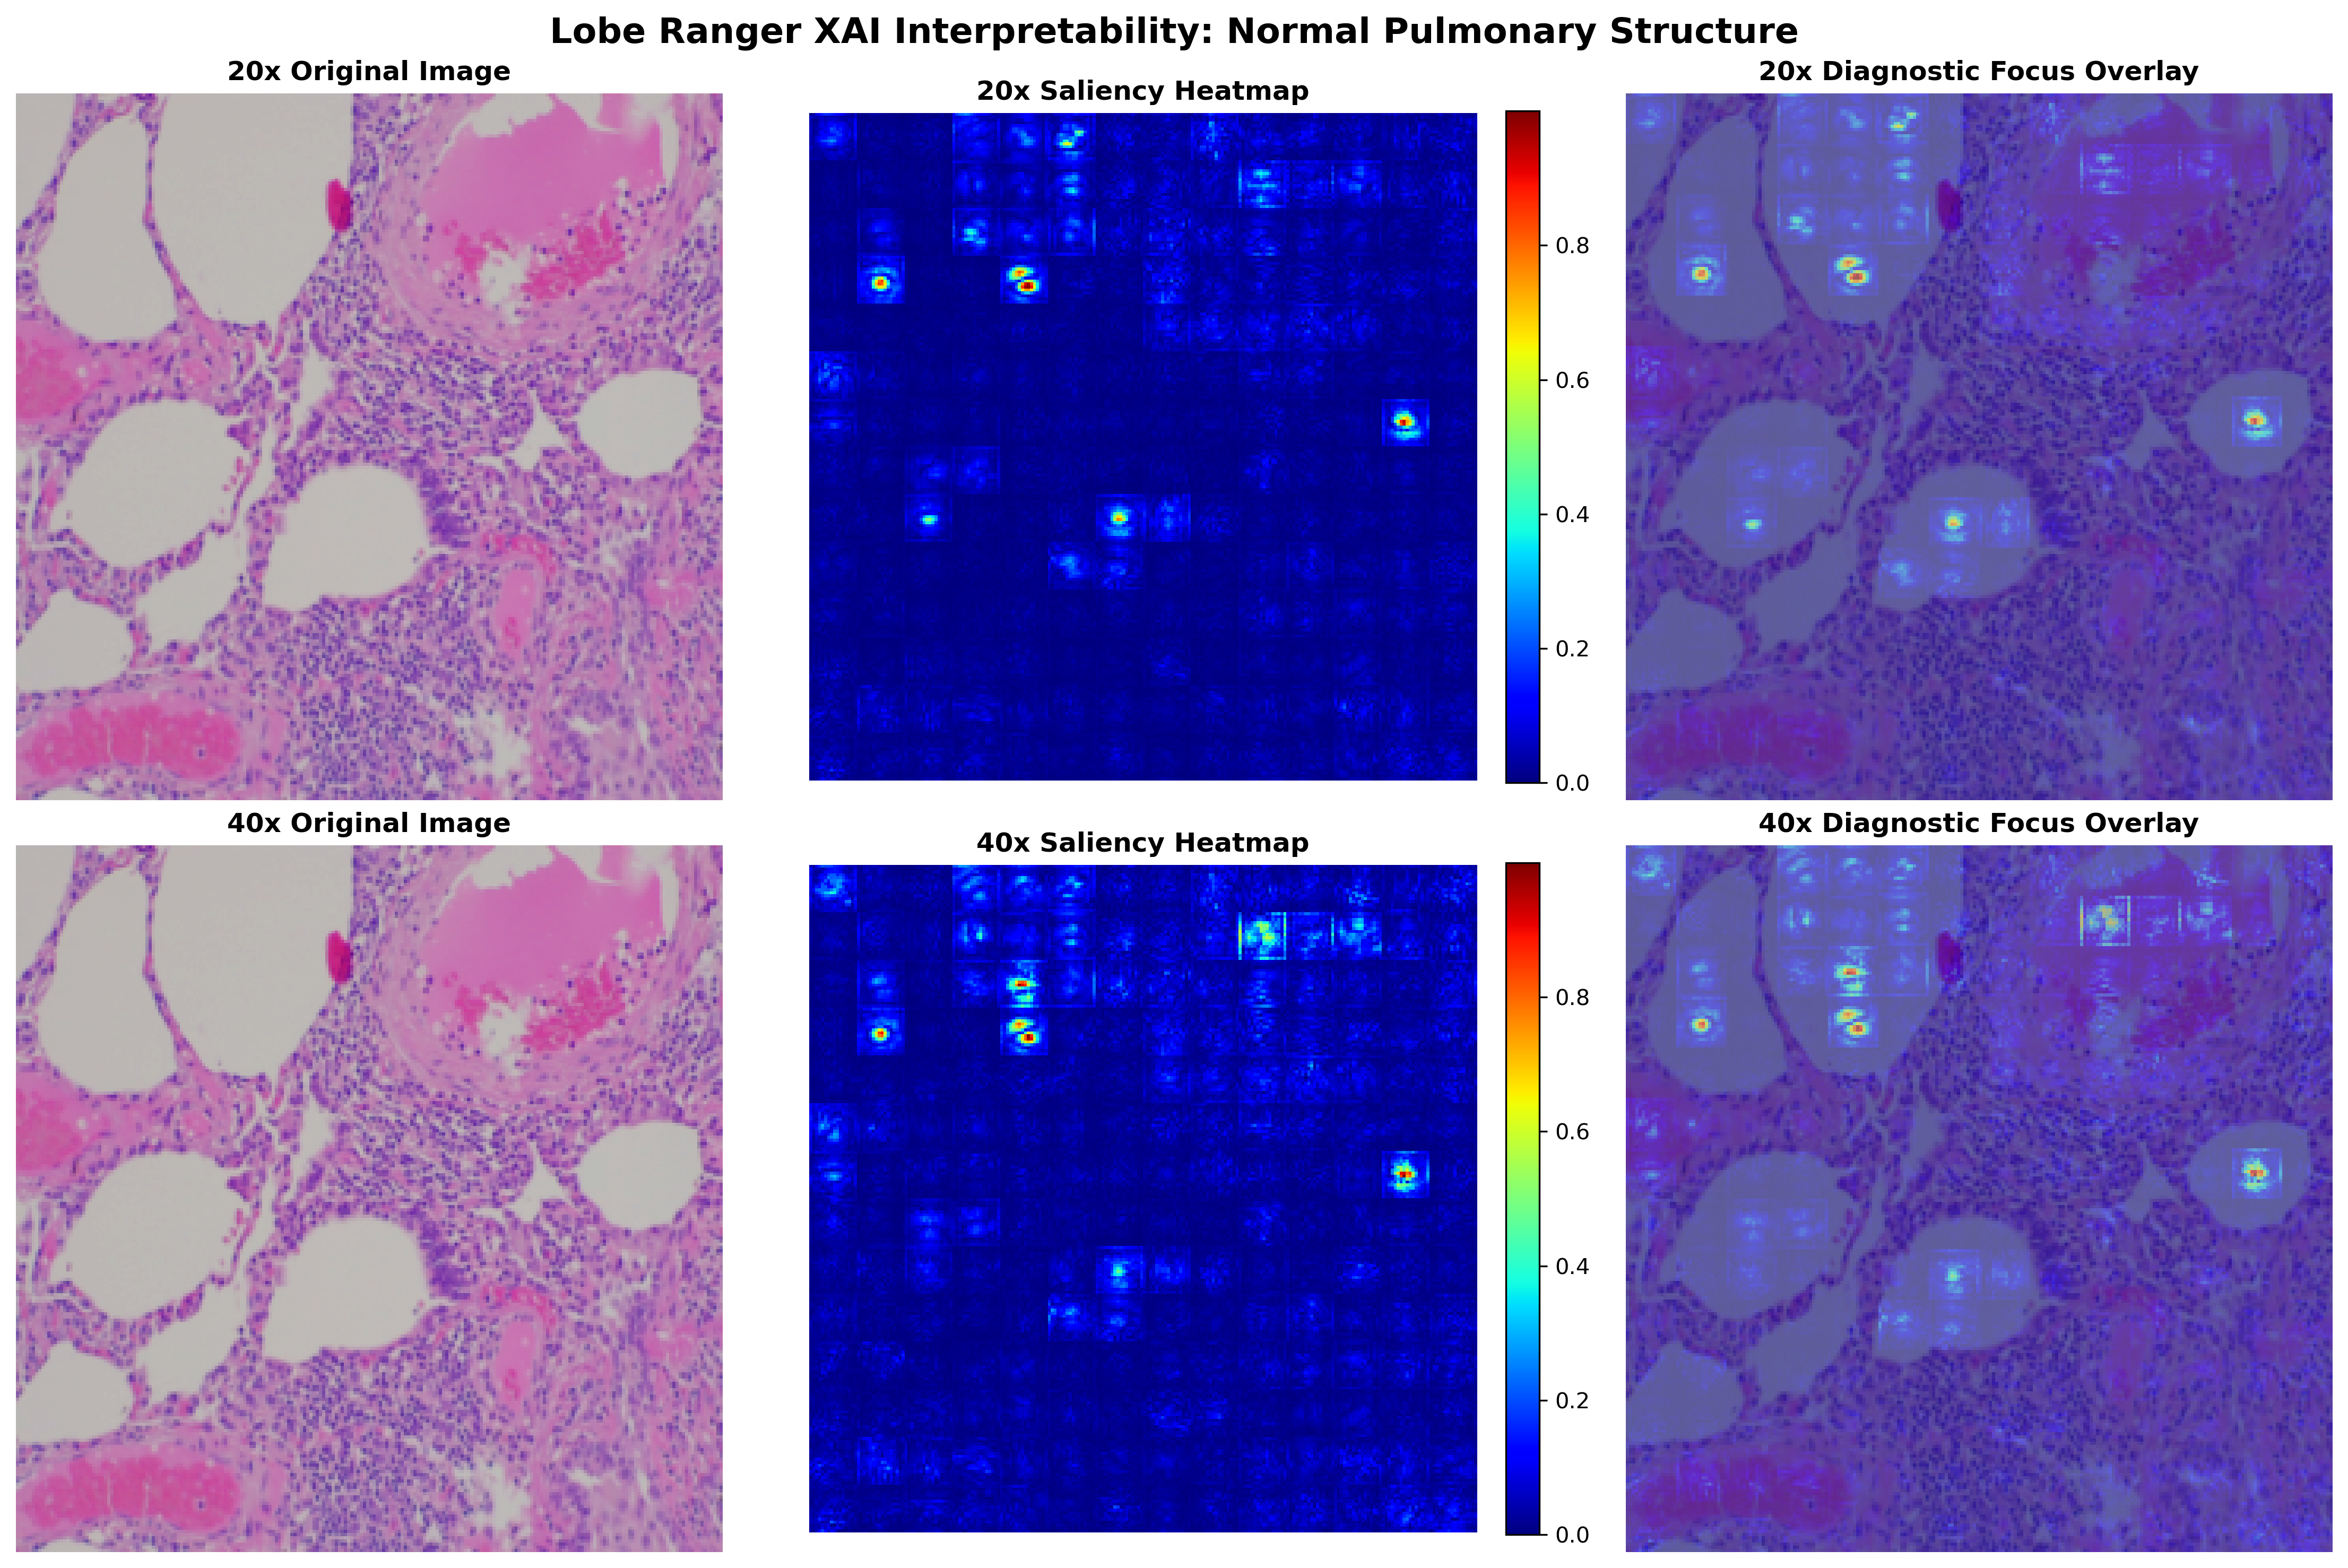
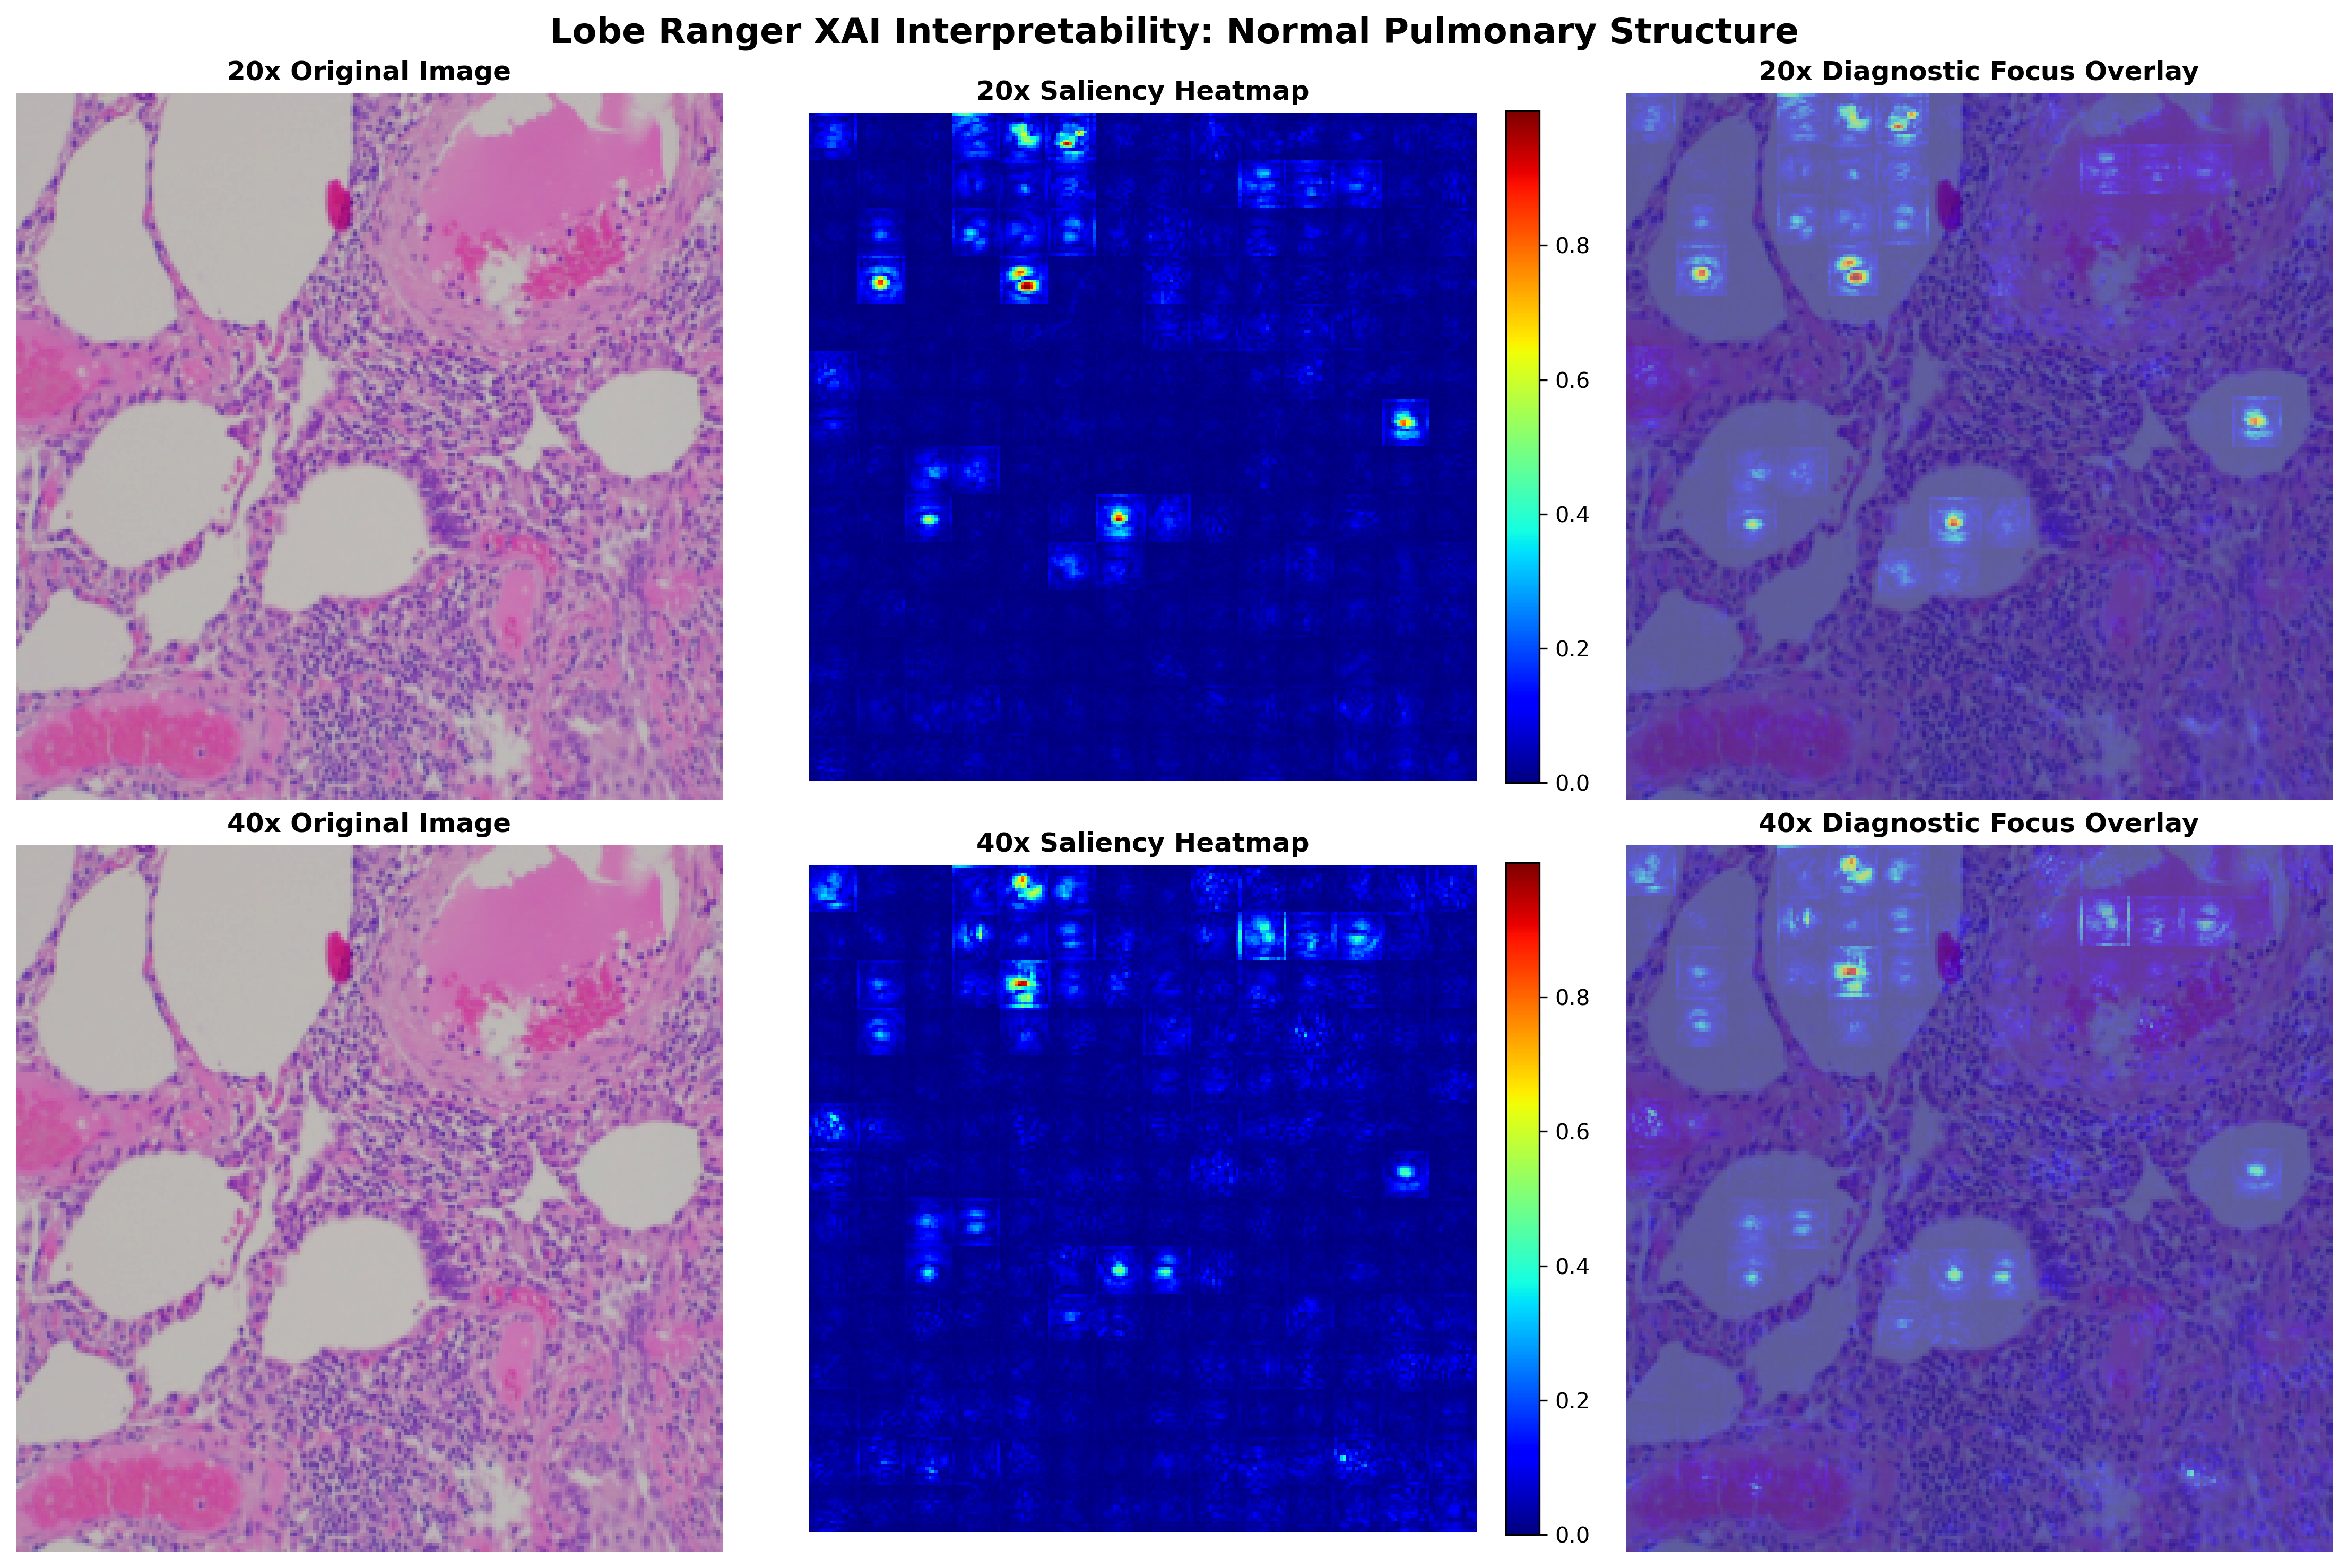
Refactor: Update path resolution in xai_interpret.py and regenerate saliency maps

diff --git a/xai_interpret.py b/xai_interpret.py
@@ -111,15 +111,15 @@ def main():
         device = torch.device("cpu")
         
     model_path = "best_mopfn.pth"
-    csv_path = "data/LungHist700/LungHist700.csv"
-    data_dir = "data/LungHist700"
+    csv_path = "data/data/data.csv"
+    data_dir = "data/data"
     
     # Auto-resolve metadata paths if nested differently
     if not os.path.exists(csv_path):
         found_csv = False
         for root, dirs, files in os.walk("data"):
             for file in files:
-                if file.endswith(".csv") and "lunghist" in file.lower():
+                if file.endswith(".csv"):
                     csv_path = os.path.join(root, file)
                     data_dir = root
                     found_csv = True